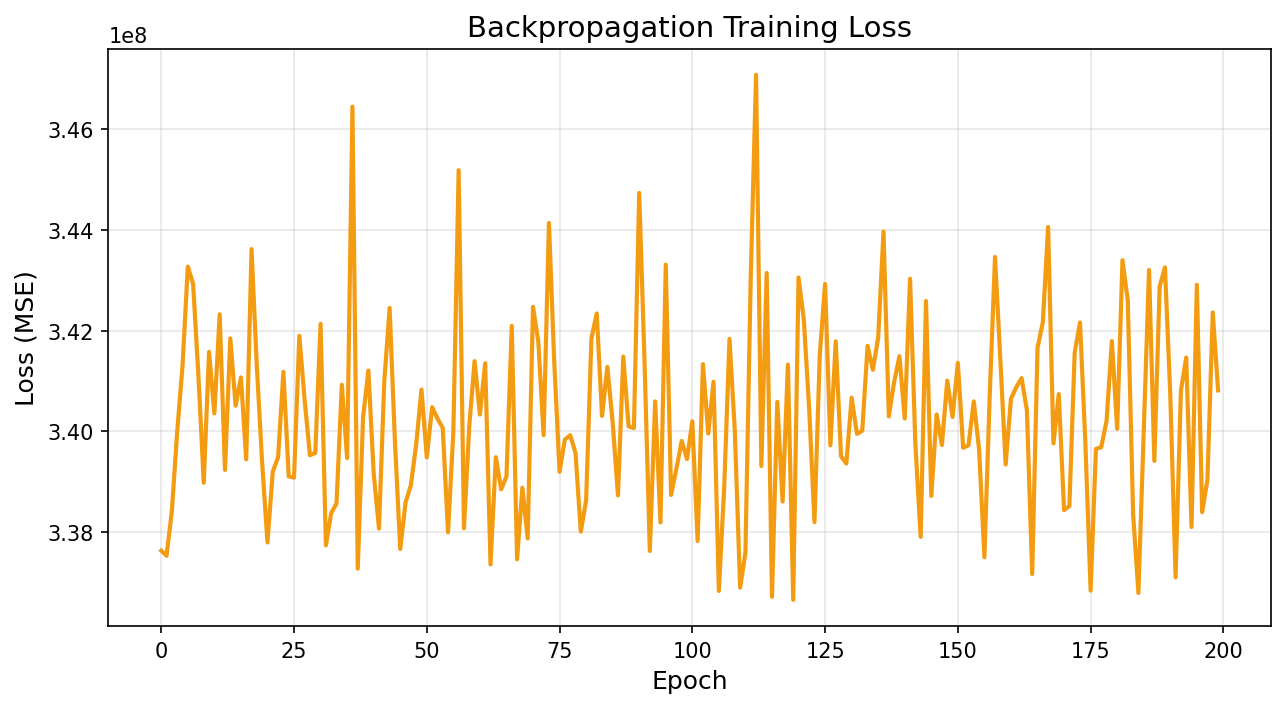
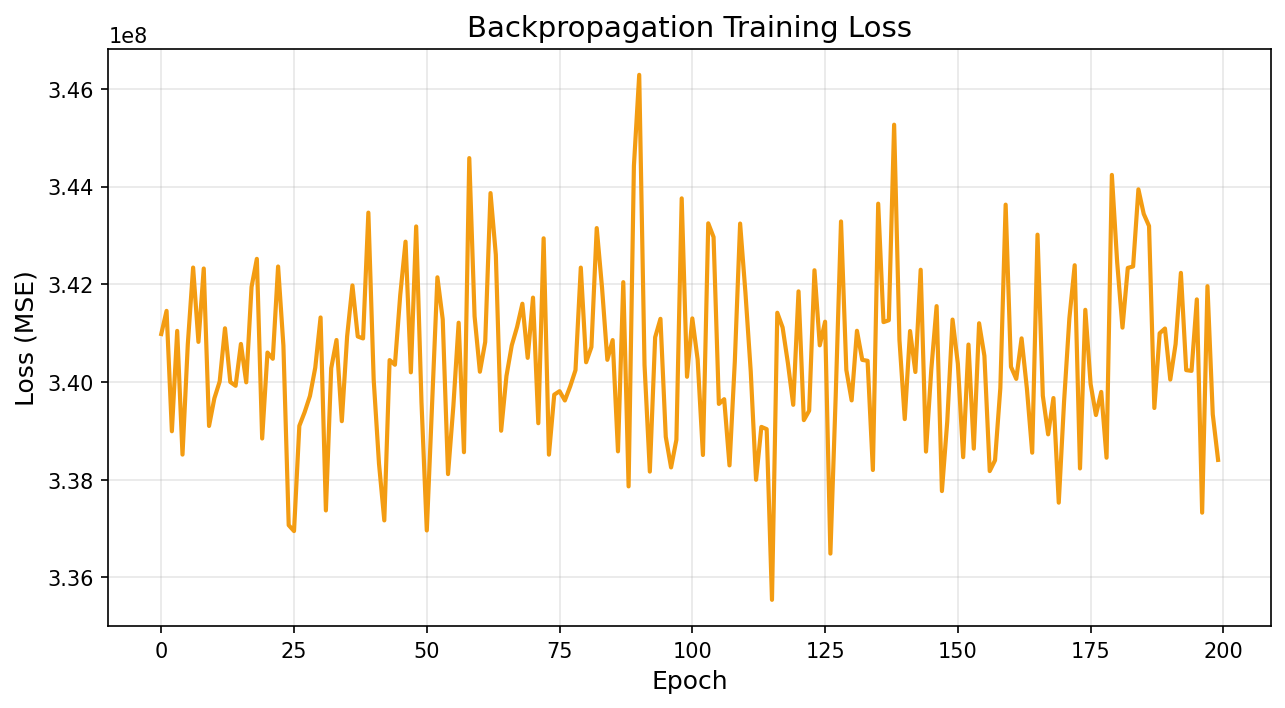
update semua halaman

diff --git a/main.py b/main.py
@@ -12,8 +12,8 @@ app = Flask(__name__)
 print("Loading models...")
 
 # Mendapatkan path absolut
-base_dir = os.path.dirname(os.path.abspath(__file__))
-models_dir = os.path.join(base_dir, '../models')
+BASE_DIR = os.path.dirname(os.path.abspath(__file__))
+models_dir = os.path.join(BASE_DIR, 'models')
 
 # Load semua model
 lr_model = joblib.load(os.path.join(models_dir, 'lr_model.pkl'))